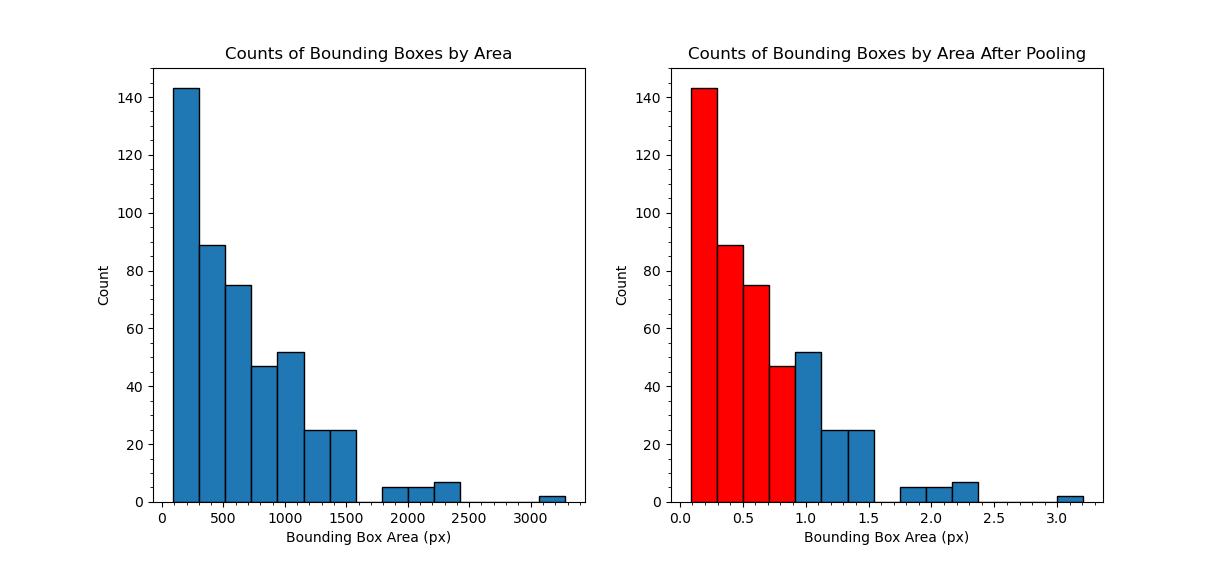
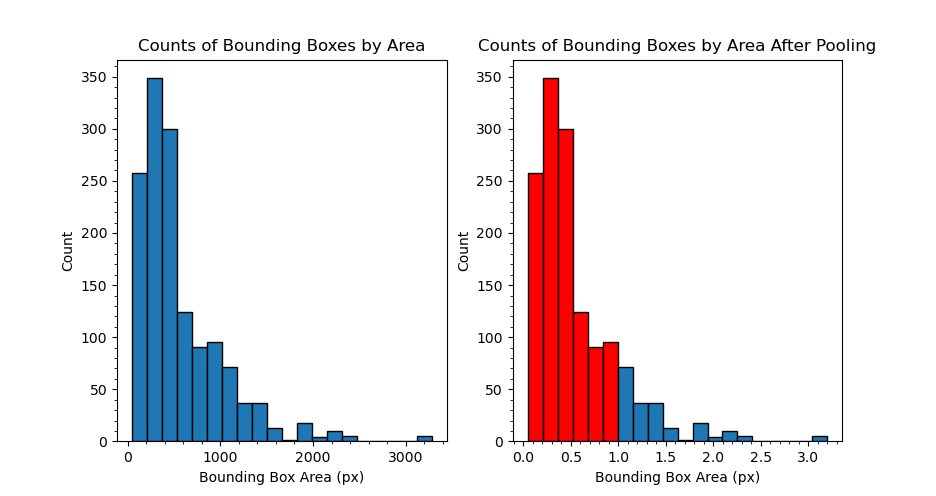
New bbox distribution + generalize script

diff --git a/Dataset_Preparation/Downsampling_Distribution/main.py b/Dataset_Preparation/Downsampling_Distribution/main.py
@@ -27,7 +27,7 @@ def process_file(filename, bbox_areas):
 def main():
     """ Main"""
 
-    data_directory = '/Users/arjunchandra/Desktop/School/Junior/Bigio Research/Imaging_Anna'
+    data_directory = '/Users/arjunchandra/Desktop/School/Junior/Bigio Research/Dataset'
 
     bbox_areas = []
 
@@ -47,8 +47,9 @@ def main():
 
 
     N, bins, patches = axis[1].hist(np.array(bbox_areas)/1024, bins=20, edgecolor = "black")
-    for i in range(0,4):
-        patches[i].set_facecolor('r')
+    for i, bin in enumerate(bins):
+        if bin < .99:
+            patches[i].set_facecolor('r')
     axis[1].set_title("Counts of Bounding Boxes by Area After Pooling")
     axis[1].set_xlabel("Bounding Box Area (px)")
     axis[1].set_ylabel("Count")
